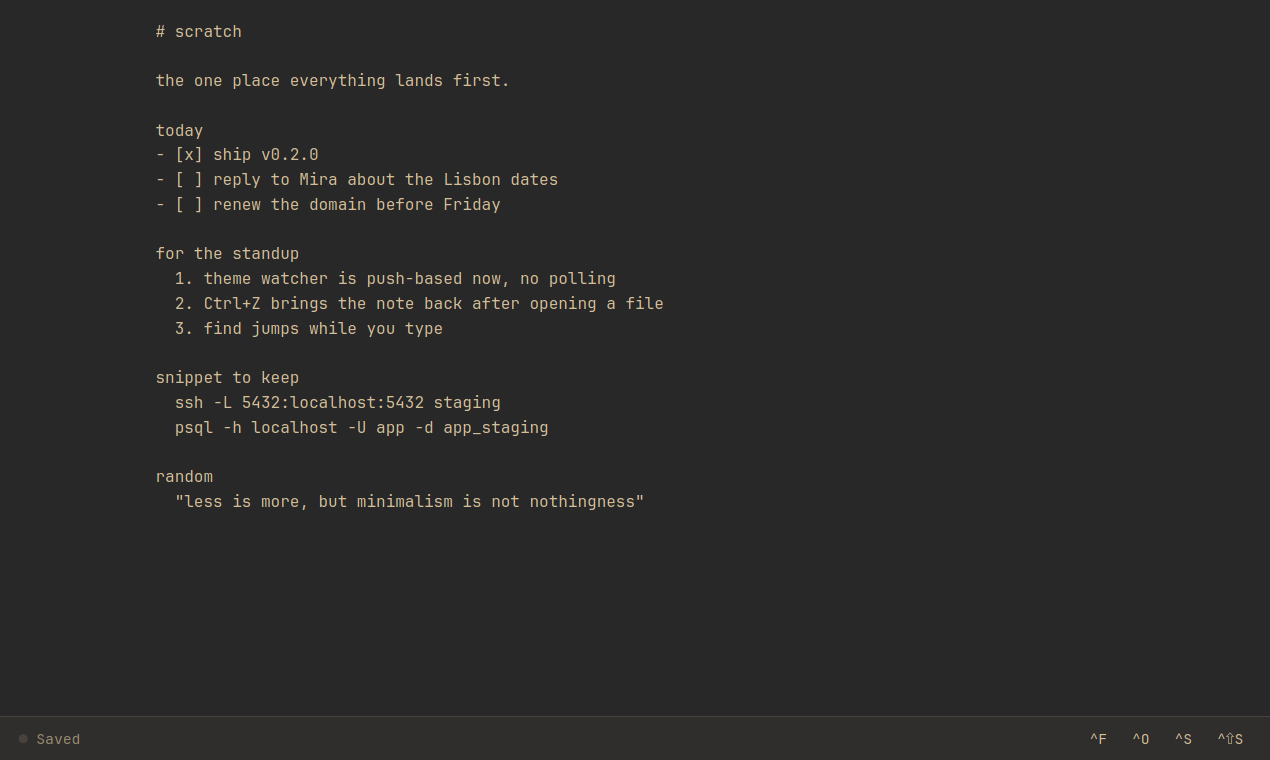
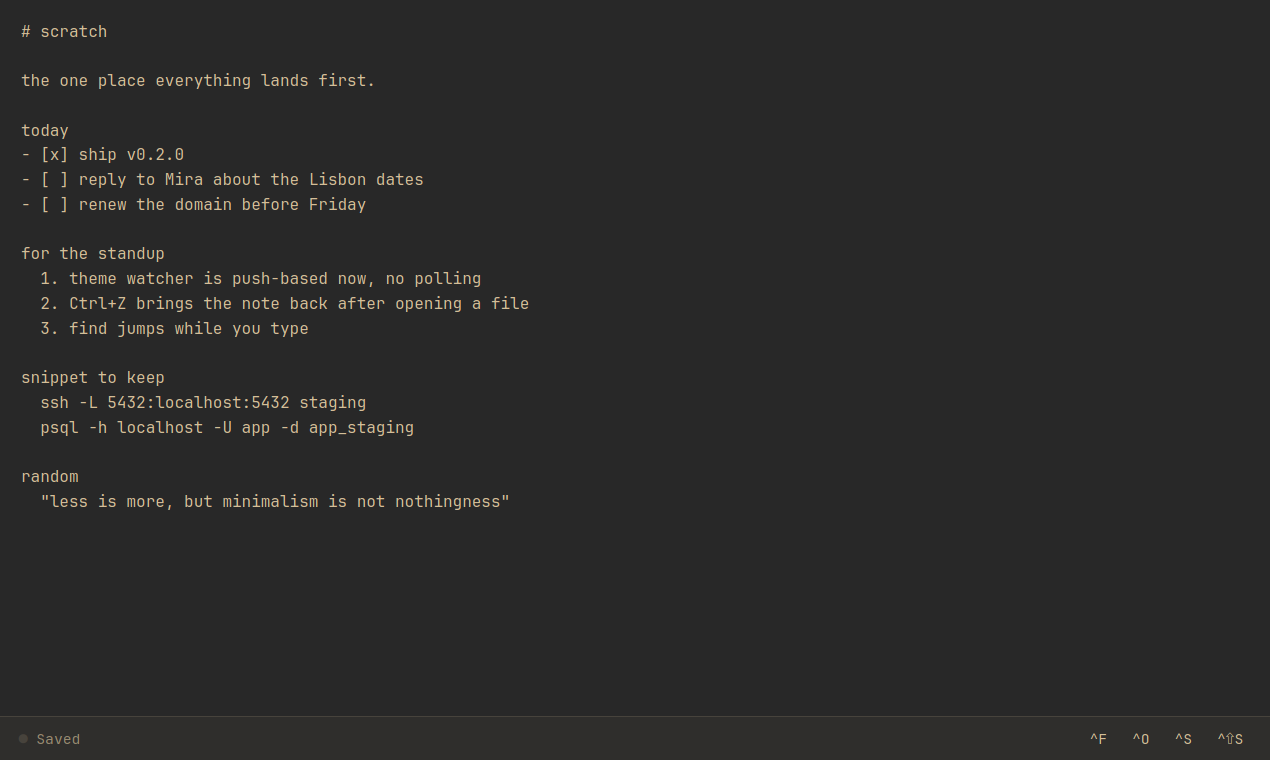
fix: the text starts at the left edge again, and the empty note has no placeholder
The centred 100-character column is removed on the owner's word (it looked
like a writing app), and so is the placeholder text. README line and
screenshots follow.

diff --git a/src/style.css b/src/style.css
@@ -31,9 +31,9 @@ body { color: var(--fg); background: var(--bg); overflow: hidden; }
 #app { display: flex; flex-direction: column; height: 100%; }
 .app-content { position: relative; display: flex; flex: 1; flex-direction: column; min-height: 0; }
 
-/* The note fills the tile and clears rounded window corners. The inline padding keeps a wide tile's text to a readable ~100 characters; narrow tiles keep 18px. */
+/* The note fills the tile and clears rounded window corners. Text starts at the left edge at every width. */
 .editor {
-  flex: 1; min-height: 0; width: 100%; padding: 16px max(18px, calc((100% - 100ch) / 2)); scroll-padding-block: 24px;
+  flex: 1; min-height: 0; width: 100%; padding: 16px 18px; scroll-padding-block: 24px;
   color: var(--fg); background: var(--bg); caret-color: var(--accent);
   border: 0; outline: 0; resize: none; font: inherit; line-height: 1.55;
   tab-size: 2; font-variant-ligatures: contextual;
@@ -43,7 +43,6 @@ body { color: var(--fg); background: var(--bg); overflow: hidden; }
 .editor::-webkit-scrollbar-track { background: transparent; }
 .editor::-webkit-scrollbar-thumb { background: var(--line); }
 .editor::-webkit-scrollbar-thumb:hover { background: var(--fg-dim); }
-.editor::placeholder { color: var(--fg-dim); }
 /* An off-screen copy of the note's text, used to measure where a match sits; inherits .editor metrics. */
 .editor-mirror {
   position: absolute; top: 0; left: 0; visibility: hidden; flex: none; height: auto; min-height: 0;

diff --git a/tests/features/singlenoteeditorfeature.test.ts b/tests/features/singlenoteeditorfeature.test.ts
@@ -99,7 +99,7 @@ describe("SingleNoteEditorFeature", () => {
     expect(document.activeElement).toBe(textarea)
   })
 
-  it("returns its textarea and shows a hint in an empty note", () => {
+  it("returns its textarea and shows no placeholder in an empty note", () => {
     const editor = createSingleNoteEditorFeature({
       call: async <T>(command: string): Promise<T> => {
         if (command === "list_note") return [] as unknown as T
@@ -111,9 +111,7 @@ describe("SingleNoteEditorFeature", () => {
     })
 
     expect(editor.textarea).toBe(document.querySelector('textarea[aria-label="Note"]'))
-    expect(editor.textarea.placeholder).toBe(
-      "Type here. The note saves by itself.\nCtrl+F find · Ctrl+O open a file · Ctrl+S save now · Ctrl+Shift+S save as Markdown · Ctrl+Shift+C copy all",
-    )
+    expect(editor.textarea.placeholder).toBe("")
   })
 
   it("shows empty text area and error banner with retry when initial load fails", async () => {

diff --git a/src/features/singlenoteeditorfeature.ts b/src/features/singlenoteeditorfeature.ts
@@ -81,7 +81,6 @@ export const createSingleNoteEditorFeature = (
   textarea.className = "editor"
   textarea.setAttribute("aria-label", "Note")
   textarea.spellcheck = false
-  textarea.placeholder = "Type here. The note saves by itself.\nCtrl+F find · Ctrl+O open a file · Ctrl+S save now · Ctrl+Shift+S save as Markdown · Ctrl+Shift+C copy all"
   textarea.readOnly = true
 
   const statusBar = document.createElement("footer")

diff --git a/README.md b/README.md
@@ -42,7 +42,7 @@ Only three colours are taken from the theme (`background`, `foreground`, `accent
 
 - **Saves by itself.** After 10 seconds without typing, when the window loses focus, and when it closes. `Ctrl+S` saves at once. If a closing save fails, the window stays open and says so.
 - **Stays out of the way.** No header, no decorations, no settings. The bar shows the save state and four keys: `^F` find, `^O` open, `^S` save, `^⇧S` export.
-- **Reads well at any size.** On a wide tile the text keeps a centred column of about 100 characters; in a small floating window (down to 360x200) it uses every pixel.
+- **Fits any tile.** The text starts at the left edge and fills the window, from a full-screen tile down to a small floating window (360x200).
 - **Edits like an editor.** Tab and Shift+Tab indent, Enter keeps the indent and continues `-`, `1.` and `- [ ]` lists, and undo survives all of it.
 - **Finds as you type.** `Ctrl+F` starts from the selected text and jumps to the first match while you type.
 - **Opens and exports.** Load any UTF-8 text file (up to 10 MiB) into the note, and `Ctrl+Z` brings the old note back. Export as Markdown with a name taken from your first line and the date, such as `apikeys-14-11-2026.md`.
